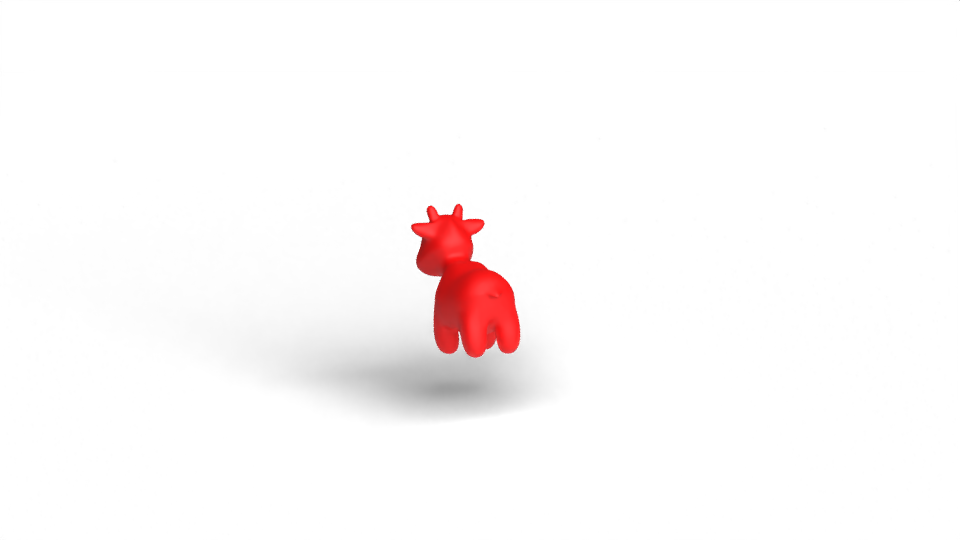
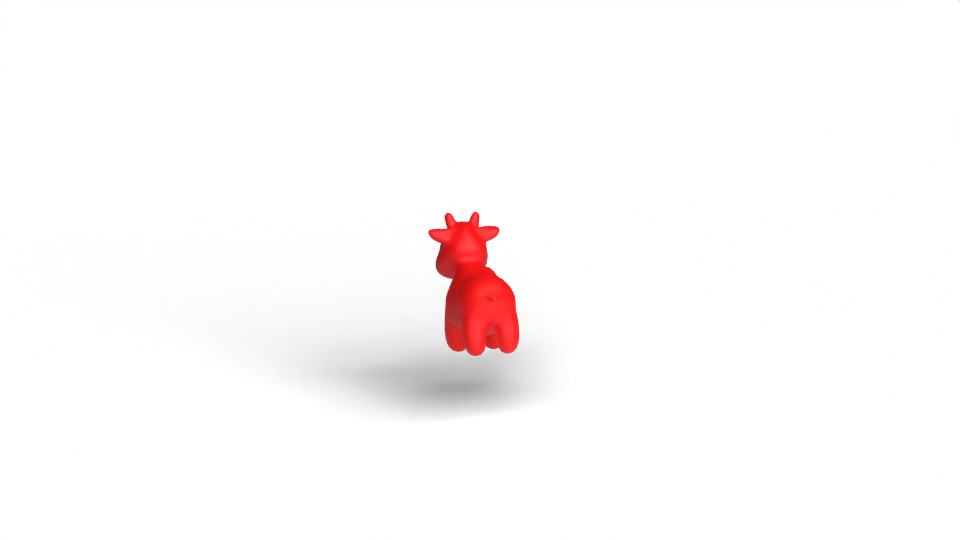
[UPDATE] final_proj presubmission ready to be turned in.

Changed region(s): [[0.4062, 0.3852, 0.5312, 0.6519]]

diff --git a/final-proj/blender_sample.py b/final-proj/blender_sample.py
@@ -116,7 +116,7 @@ class Scene:
 
     def setup_render_engine(self):
         # CPU is faster on most laptops, but if you have a GPU, change this to GPU
-        bpy.context.scene.cycles.device = "CPU"
+        bpy.context.scene.cycles.device = "GPU"
 
         # we default to 10 samples at 50% resolution for faster rendering
         # feel free to increase this for higher quality, though it will take much longer per frame
@@ -275,7 +275,7 @@ debug = False
 animate = True
 
 # hard code locations
-n_frames = 20
+n_frames = 30
 
 # example animations (moving either cam or mesh)
 # example camera animation
@@ -285,6 +285,18 @@ n_frames = 20
 # example mesh animation
 # this uses np.linspace to generate linear animations
 # but you can replace this with your splines!
+# def get_rotations():
+#     from interpolation import BSpline
+
+#     knots = [0, 36, 108, 144, 180]
+#     controls = [0, 180]
+#     degree = 2
+#     rot_spline = BSpline(knots, controls, degree)
+#     x = np.linspace(0, 180)
+#     rots = [rot_spline.interp(pos) for pos in x]
+
+#     return rots
+
 rotations = zip([1.36] * n_frames, [0] * n_frames, np.linspace(1.157, 5, n_frames))
 locations = zip(
     [0] * n_frames, np.linspace(0, -2, n_frames), np.linspace(0.7521, 1.5, n_frames)

diff --git a/final-proj/interpolation.py b/final-proj/interpolation.py
@@ -22,25 +22,22 @@ class BSpline:
 
     def is_valid(self) -> bool:
         """Check if the B-spline configuration is valid."""
-        # TODO: complete this function.
         return self.d == len(self.t) - len(self.c) - 1
-        return True  # change this.
+
 
     def bases(self, x: float, k: int, i: int) -> float:
         """
         Evaluate the B-spline basis function i, k at input position x.
         (Note that i, k start at 0.)
         """
-        # TODO: complete this function
-
         if k == 0:  # base case
-            print("base case!")
+            # print("base case!")
             if self.t[i] <= x and self.t[i + 1] > x:
                 return 1
             else:
                 return 0
         else:
-            print("recurring...")
+            # print("recurring...")
             return (
                 (x - self.t[i]) / (self.t[i + k] - self.t[i]) * self.bases(x, k - 1, i)
             ) + (
@@ -51,9 +48,7 @@ class BSpline:
 
     def interp(self, x: float) -> float:
         """Evaluate the B-spline at input position x."""
-        # TODO: complete this function
         return self.bases(x=x, k=self.d, i=0)
-        return None  # change this
 
 
 if __name__ == "__main__":

diff --git a/final-proj/save_video.py b/final-proj/save_video.py
@@ -27,7 +27,7 @@ def save_video(path, fps, background_color):
     write_to = "output/animations/{}.mp4".format(
         "animation"
     )  # have a folder of output where output files could be stored.
-    writer = imageio.get_writer(write_to, format="mp4", mode="I", fps=fps)
+    writer = imageio.get_writer(write_to, format="mp4", mode="I", fps=fps, macro_block_size = None)
 
     for img in imgs:
         writer.append_data(img[:])
@@ -35,7 +35,7 @@ def save_video(path, fps, background_color):
 
 
 # Here is an example which saves images in the animation_renders folder to a video file at 10 fps with a white background
-fps = 10
+fps = 30
 background_color = (255, 255, 255)
 
 save_video(
